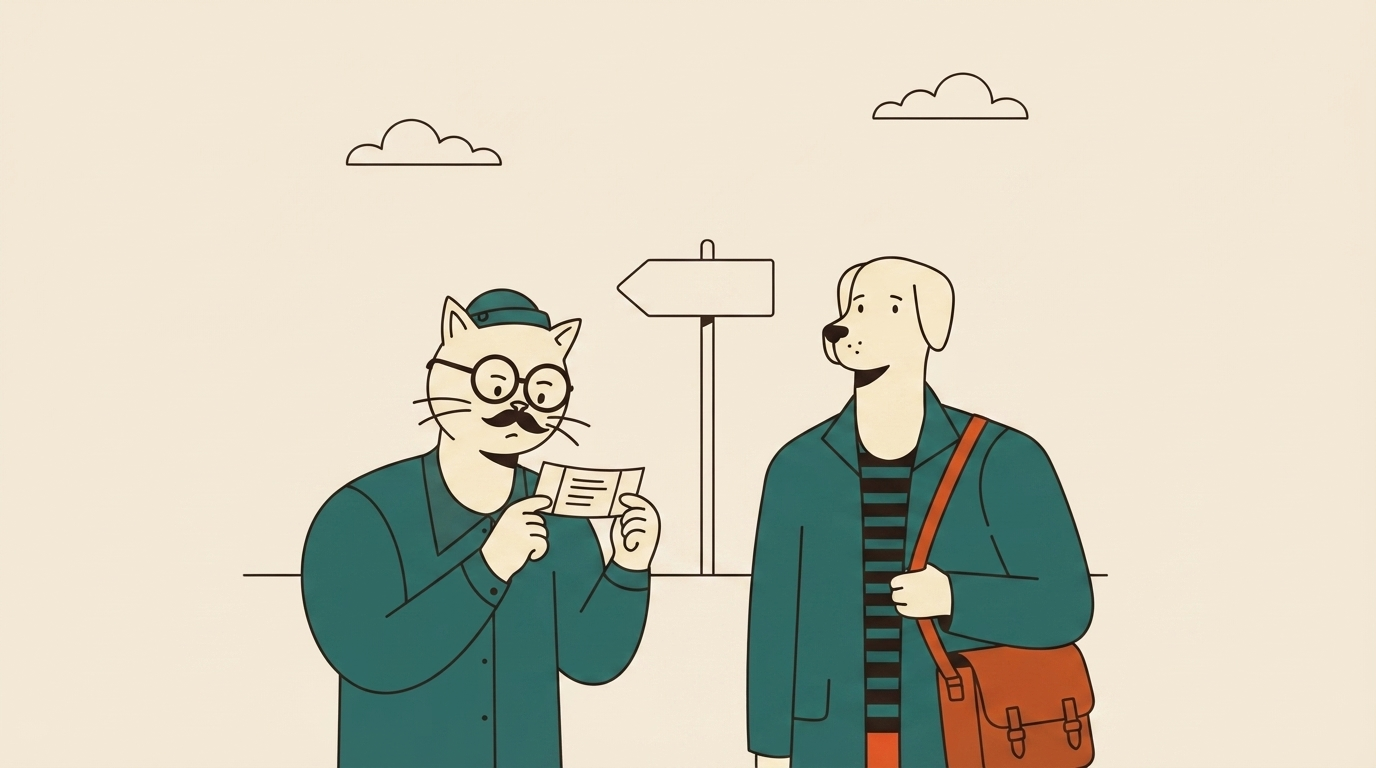
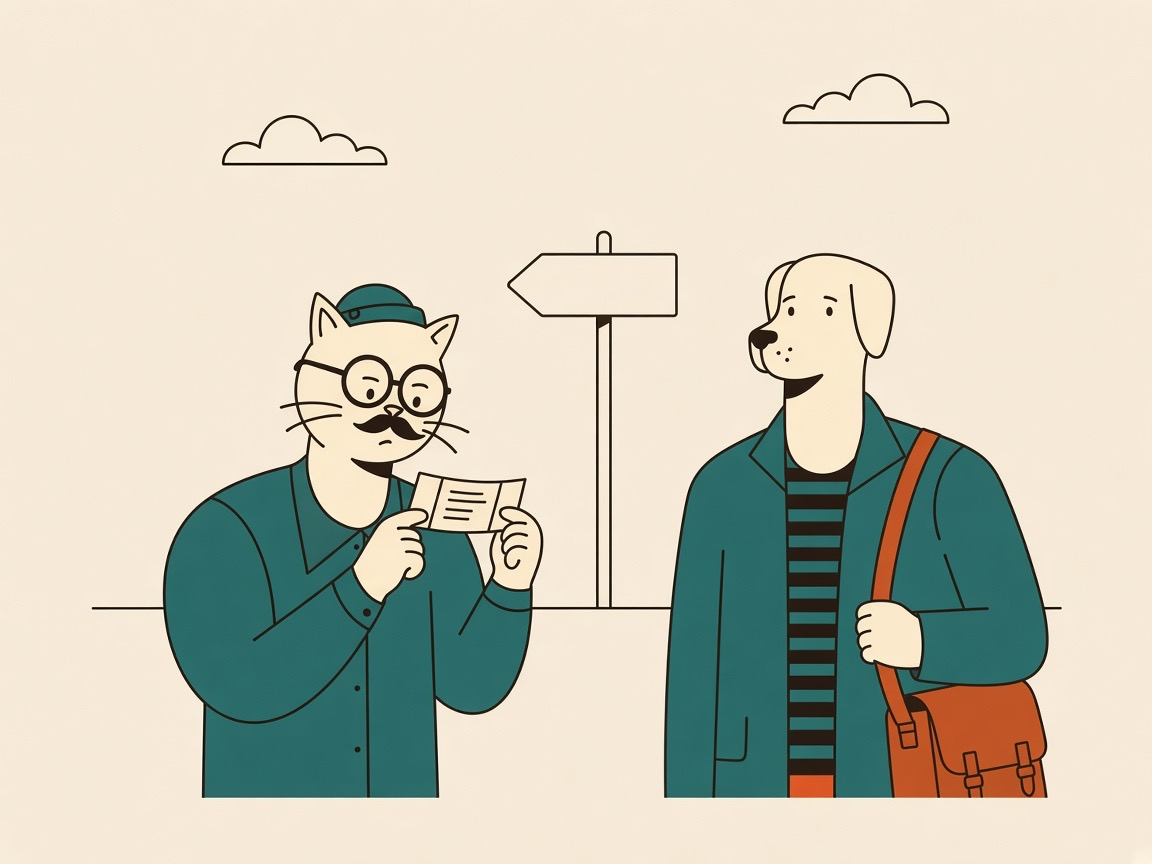
Cursor checkpoint: 2026-09-20 18:01
Files touched (4):
- USINESS_STATE.md
- public/brand/features/misconceptions.jpg
- public/brand/features/misconceptions.webp
- src/components/TestingMethod.tsx

Auto-committed by .cursor/hooks/git-checkpoint.mjs (stop hook) — not a curated commit message.

diff --git a/src/components/TestingMethod.tsx b/src/components/TestingMethod.tsx
@@ -21,8 +21,6 @@ const STEPS = [
     body: "Every answer helps build a picture of where you’re strongest and where you need more work. Focus your revision on the topics that need it most.",
     src: "/brand/features/misconceptions.webp",
     alt: "Illustrated weak-spots scene — mistakes mapped into a clearer study plan.",
-    stickerSrc: "/brand/inspo/thumbs-down.png",
-    stickerAlt: "",
     objectPosition: "center 45%",
     tone: "orange" as const,
   },

diff --git a/BUSINESS_STATE.md b/BUSINESS_STATE.md
@@ -19,6 +19,7 @@ Phase 1 platform shell — in progress. Next.js app scaffolded at repo root with
 - No users, revenue, or infrastructure stood up for the new platform yet (no Supabase project, no Stripe account, no deployment) — the 60 logins are on the existing standalone "PMQ in 5 days" site.
 - **How the backlog gets built:** Claude plans/specs/grooms Linear/verifies; **Cursor** (a separate AI coding agent Sim runs locally) executes the actual code changes, picking up work from `cursor-prompt-*.md` files Claude writes in `cursor-prompts/` (they lived at the project root until 2026-09-15). Full definition in `CLAUDE.md` under "Collaborators & tools" — check there first if a session ever seems unsure what "Cursor" refers to.
 
+- **2026-09-20** — Testing method step 02: removed thumbs-down sticker and replaced `misconceptions.jpg`/`misconceptions.webp` without a thumbs-up strap grip (`TestingMethod`, `public/brand/features/misconceptions.*`).
 - **2026-09-20** — Testing method step 01: removed thumbs-up — dropped sticker overlay and replaced `practice.jpg`/`practice.webp` with a version where both paws rest on the keyboard (`TestingMethod`, `public/brand/features/practice.*`).
 - **2026-09-20** — Home brand hero category stamp (“Project Management Exam Revision”) bumped type size (`15px` / `sm:19px`) in `HomeBrandHero`.
 - **2026-09-20** — Home brand hero: removed geometric lattice square animation (`LabBackgroundPaths` no longer mounted in `HomeBrandHero`; still on `/lab`).
